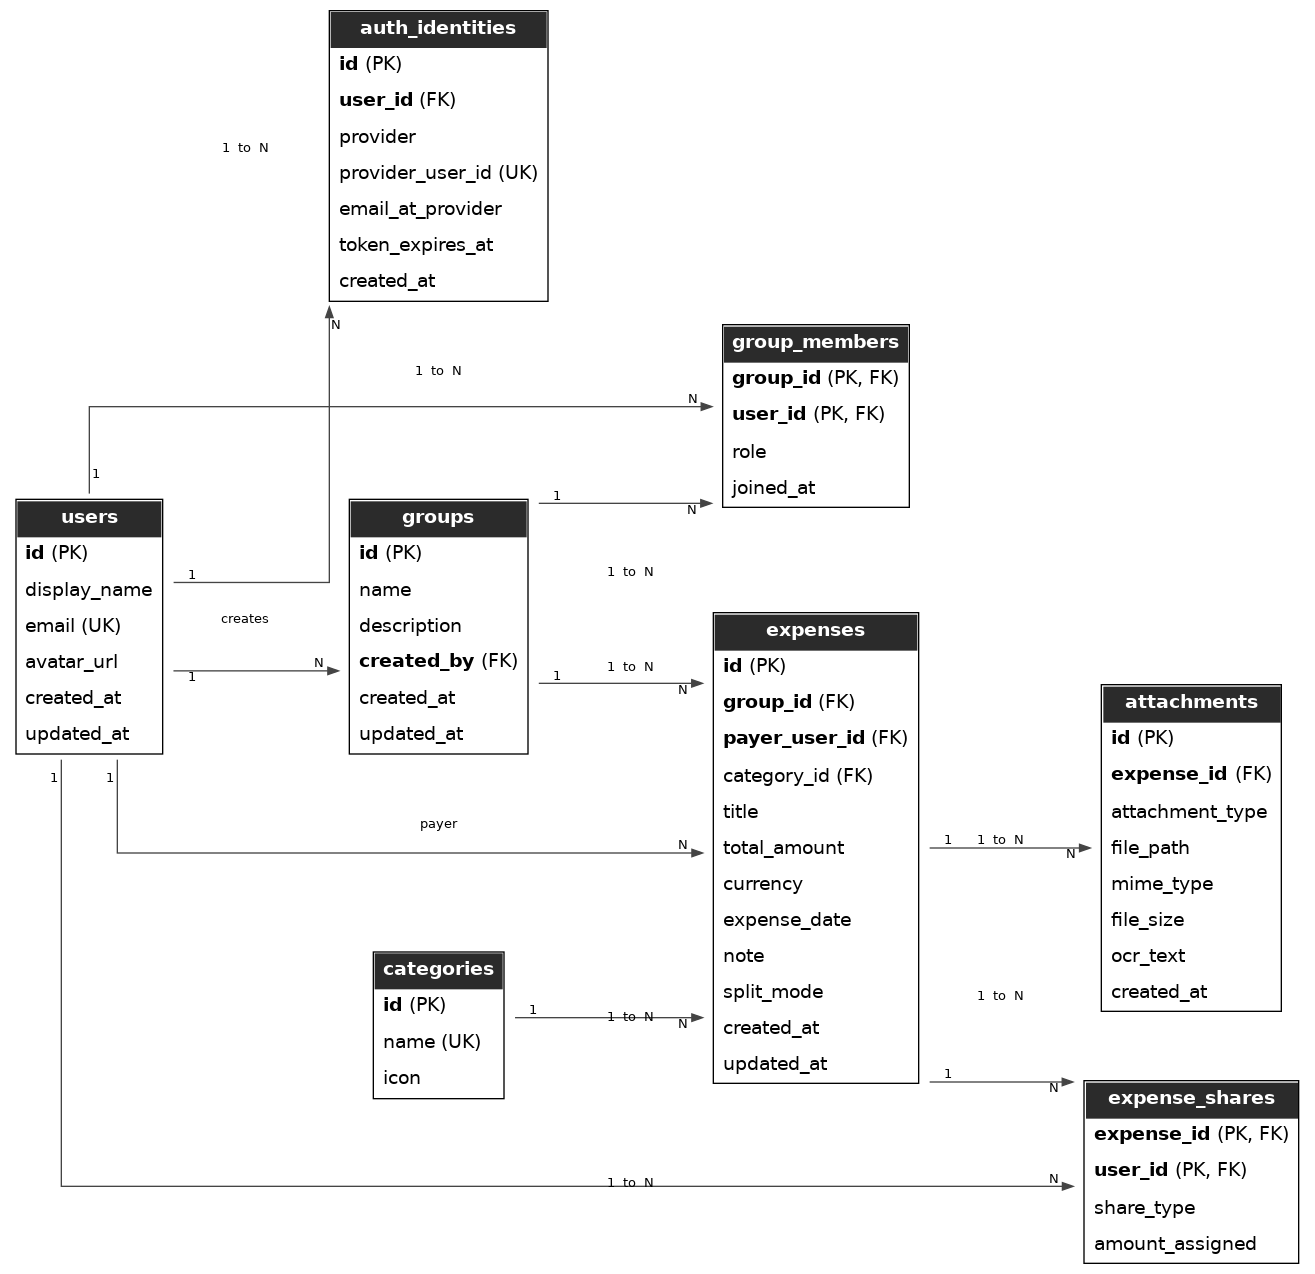
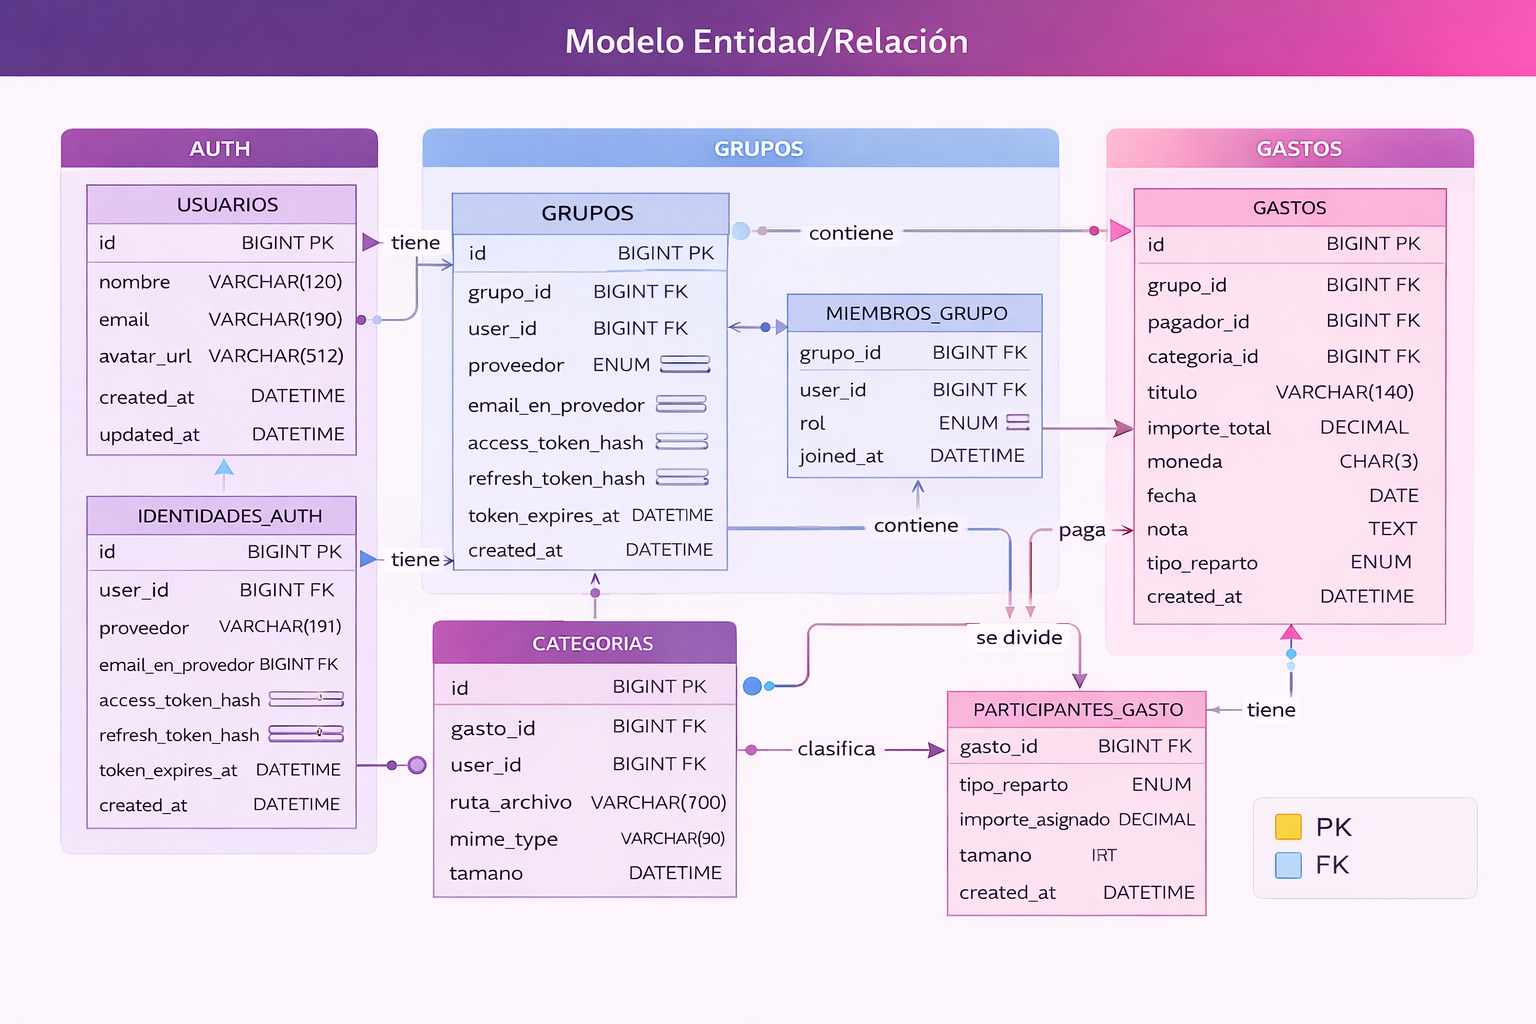
Updarte en el directorio docs

diff --git a/docs/03-modelo-datos-er.md b/docs/03-modelo-datos-er.md
@@ -1,4 +1,7 @@
-## 📌 Diagrama ER (Mermaid)
+# Modelo ER (Mermaid)
+
+> Nota: En el README se muestra la imagen exportada (PNG).  
+> Aquí se mantiene el diagrama en Mermaid como fuente editable.
 
 ```mermaid
 erDiagram
@@ -13,62 +16,78 @@ erDiagram
   CATEGORIES ||--o{ EXPENSES : classifies
 
   USERS {
-    BIGINT id PK
-    VARCHAR display_name
-    VARCHAR email
-    VARCHAR avatar_url
-    DATETIME created_at
-    DATETIME updated_at
+    int id PK
+    string display_name
+    string email
+    string avatar_url
+    datetime created_at
+    datetime updated_at
   }
 
   AUTH_IDENTITIES {
-    BIGINT id PK
-    BIGINT user_id FK
-    ENUM provider
-    VARCHAR provider_user_id
-    VARCHAR email_at_provider
-    VARCHAR access_token_hash
-    VARCHAR refresh_token_hash
-    DATETIME token_expires_at
-    DATETIME created_at
+    int id PK
+    int user_id FK
+    string provider
+    string provider_user_id
+    string email_at_provider
+    string access_token_hash
+    string refresh_token_hash
+    datetime token_expires_at
+    datetime created_at
   }
 
   GROUPS {
-    BIGINT id PK
-    VARCHAR name
-    TEXT description
-    BIGINT created_by FK
-    DATETIME created_at
-    DATETIME updated_at
+    int id PK
+    string name
+    string description
+    int created_by FK
+    datetime created_at
+    datetime updated_at
   }
 
   GROUP_MEMBERS {
-    BIGINT group_id FK
-    BIGINT user_id FK
-    ENUM role
-    DATETIME joined_at
+    int group_id FK
+    int user_id FK
+    string role
+    datetime joined_at
   }
 
   CATEGORIES {
-    BIGINT id PK
-    VARCHAR name
-    VARCHAR icon
+    int id PK
+    string name
+    string icon
   }
 
   EXPENSES {
-    BIGINT id PK
-    BIGINT group_id FK
-    BIGINT payer_user_id FK
-    BIGINT category_id FK
-    VARCHAR title
-    DECIMAL total_amount
-    CHAR currency
-    DATE expense_date
-    TEXT note
-    ENUM split_mode
-    DATETIME created_at
-    DATETIME updated_at
+    int id PK
+    int group_id FK
+    int payer_user_id FK
+    int category_id FK
+    string title
+    float total_amount
+    string currency
+    date expense_date
+    string note
+    string split_mode
+    datetime created_at
+    datetime updated_at
   }
 
   EXPENSE_SHARES {
+    int expense_id FK
+    int user_id FK
+    string share_type
+    float amount_assigned
+  }
+
+  ATTACHMENTS {
+    int id PK
+    int expense_id FK
+    string attachment_type
+    string file_path
+    string mime_type
+    int file_size
+    string ocr_text
+    datetime created_at
+  }
 ```
